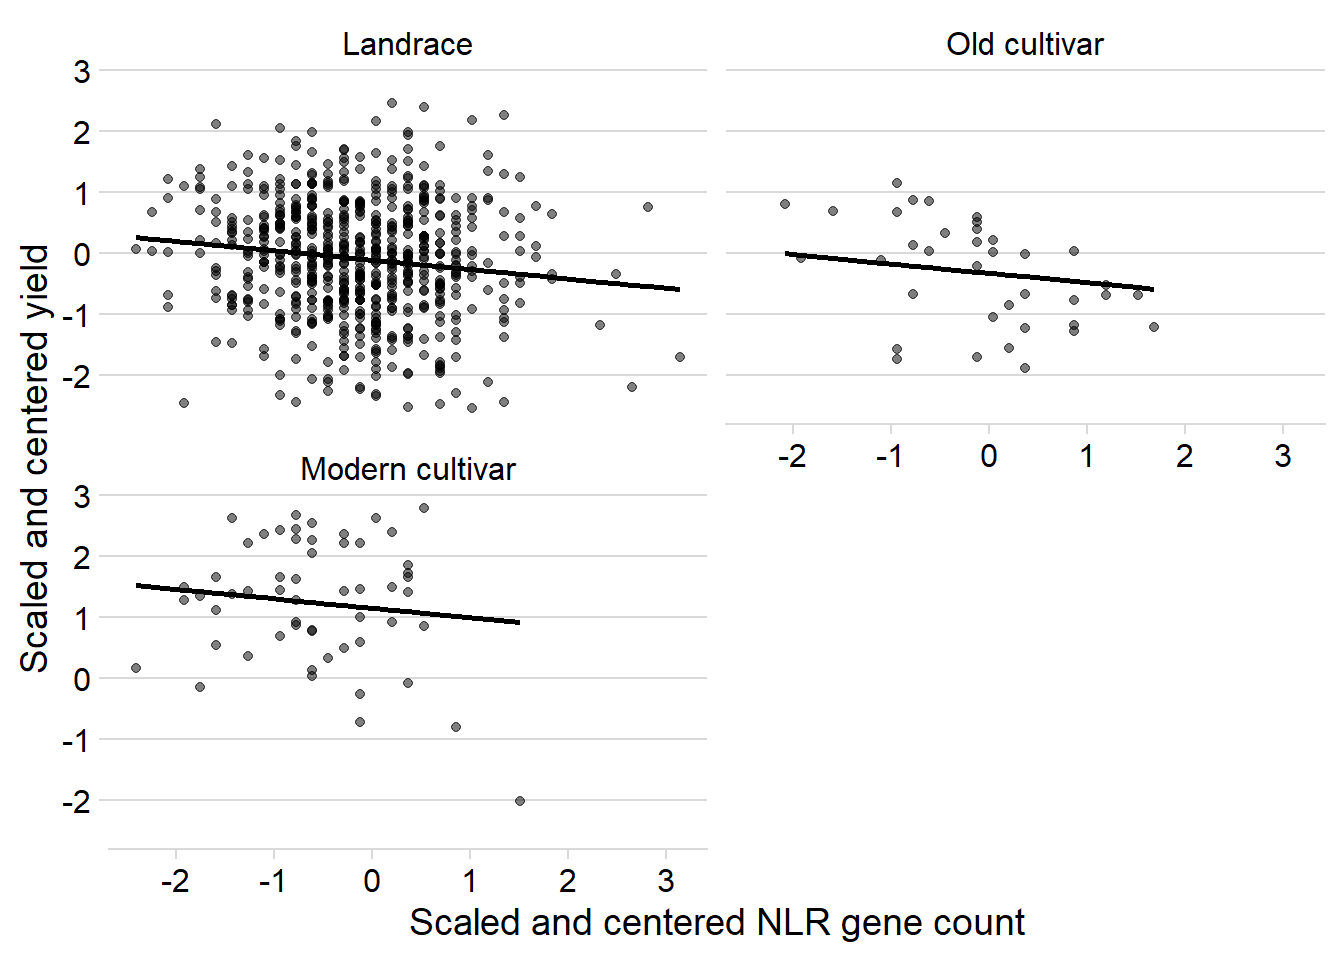
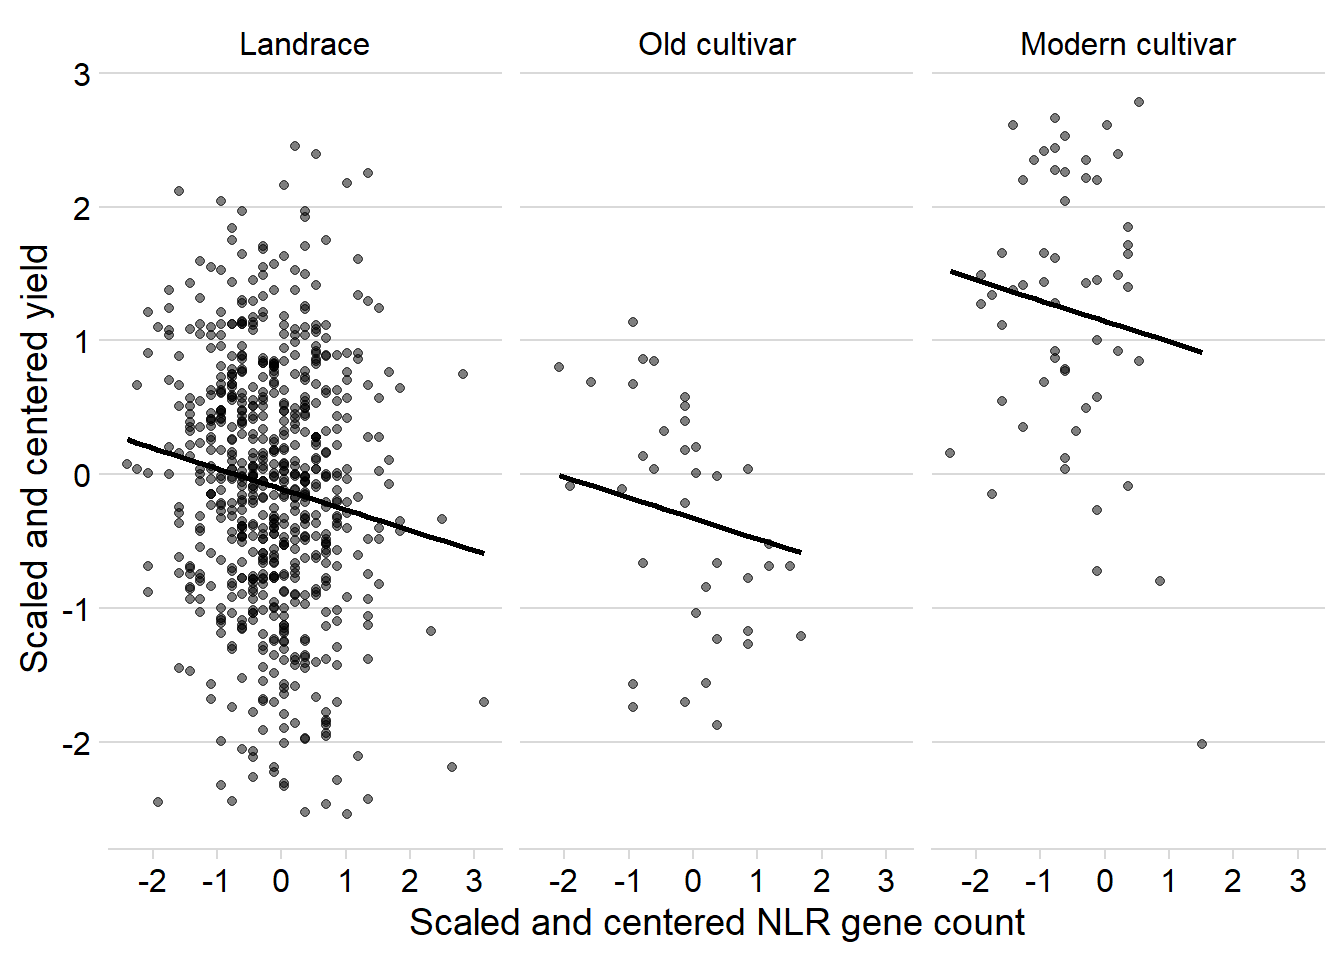
Build site.

diff --git a/docs/yield_link.html b/docs/yield_link.html
@@ -504,16 +504,16 @@ This reproducible <a href="http://rmarkdown.rstudio.com">R Markdown</a> analysis
 <div class="panel panel-default">
 <div class="panel-heading">
 <p class="panel-title">
-<a data-toggle="collapse" data-parent="#workflowr-checks" href="#strongRepositoryversionstrongahrefhttpsgithubcomphilippbayerRgeneanalysistreeb8b60b1c21cd45444b2d0876b5ceecb692608199targetblankb8b60b1a"> <span class="glyphicon glyphicon-ok text-success" aria-hidden="true"></span> <strong>Repository version:</strong> <a href="https://github.com/philippbayer/R_gene_analysis/tree/b8b60b1c21cd45444b2d0876b5ceecb692608199" target="_blank">b8b60b1</a> </a>
+<a data-toggle="collapse" data-parent="#workflowr-checks" href="#strongRepositoryversionstrongahrefhttpsgithubcomphilippbayerRgeneanalysistreef0de0054cbcadb524704d4cb8991ac43c9a81380targetblankf0de005a"> <span class="glyphicon glyphicon-ok text-success" aria-hidden="true"></span> <strong>Repository version:</strong> <a href="https://github.com/philippbayer/R_gene_analysis/tree/f0de0054cbcadb524704d4cb8991ac43c9a81380" target="_blank">f0de005</a> </a>
 </p>
 </div>
[2 lines of base64/hex data omitted]
 <div class="panel-body">
 <p>
 Great! You are using Git for version control. Tracking code development and connecting the code version to the results is critical for reproducibility.
 </p>
 <p>
-The results in this page were generated with repository version <a href="https://github.com/philippbayer/R_gene_analysis/tree/b8b60b1c21cd45444b2d0876b5ceecb692608199" target="_blank">b8b60b1</a>. See the <em>Past versions</em> tab to see a history of the changes made to the R Markdown and HTML files.
+The results in this page were generated with repository version <a href="https://github.com/philippbayer/R_gene_analysis/tree/f0de0054cbcadb524704d4cb8991ac43c9a81380" target="_blank">f0de005</a>. See the <em>Past versions</em> tab to see a history of the changes made to the R Markdown and HTML files.
 </p>
 <p>
 Note that you need to be careful to ensure that all relevant files for the analysis have been committed to Git prior to generating the results (you can use <code>wflow_publish</code> or <code>wflow_git_commit</code>). workflowr only checks the R Markdown file, but you know if there are other scripts or data files that it depends on. Below is the status of the Git repository when the results were generated:
@@ -601,6 +601,40 @@ Message
 </tr>
 </thead>
 <tbody>
+<tr>
+<td>
+Rmd
+</td>
+<td>
+<a href="https://github.com/philippbayer/R_gene_analysis/blob/f0de0054cbcadb524704d4cb8991ac43c9a81380/analysis/yield_link.Rmd" target="_blank">f0de005</a>
+</td>
+<td>
+Philipp Bayer
+</td>
+<td>
+2020-11-18
+</td>
+<td>
+PLots in one row now
+</td>
+</tr>
+<tr>
+<td>
+html
+</td>
+<td>
+<a href="https://rawcdn.githack.com/philippbayer/R_gene_analysis/e3242233183002e66dbfb06637a22d1e8d14c60d/docs/yield_link.html" target="_blank">e324223</a>
+</td>
+<td>
+Philipp Bayer
+</td>
+<td>
+2020-11-18
+</td>
+<td>
+Build site.
+</td>
+</tr>
 <tr>
 <td>
 Rmd
@@ -1524,7 +1558,7 @@ qqline(resid(mixed.lmer))</code></pre>
 <p>:O</p>
 <p>p-value of 0.000247 for the normalised presences while accounting for the breeding group, that’s beautiful.</p>
 <pre class="r"><code>ggplot(yield_nbs_joined_groups, aes(x = presences2, y = Yield2)) +
-      facet_wrap(~Group, nrow=2) +   # a panel for each mountain range
+      facet_wrap(~Group, nrow=1) +   # a panel for each mountain range
       geom_point(alpha = 0.5) +
       theme_classic() +
       geom_line(data = cbind(yield_nbs_joined_groups, pred = predict(mixed.lmer)), aes(y = pred), size = 1) + 
@@ -1583,7 +1617,7 @@ Correlation of Fixed Effects:
 presences2 0.051 </code></pre>
 <p>Nice! Yield is negatively correlated with the number of NLR genes when accounting for breeding group AND country</p>
 <pre class="r"><code>ggplot(yield_country_nbs_joined_groups, aes(x = presences2, y = Yield2, colour = Country)) +
-      facet_wrap(~Group, nrow=2) +   # a panel for each mountain range
+      facet_wrap(~Group, nrow=1) +   # a panel for each mountain range
       geom_point(alpha = 0.5) +
       theme_classic() +
       geom_line(data = cbind(yield_country_nbs_joined_groups, pred = predict(mixed.lmer)), aes(y = pred), size = 1) + 
@@ -1673,7 +1707,7 @@ Correlation of Fixed Effects:
 presences.x -0.991</code></pre>
 <p>Oh, lower p-values for the intercept</p>
 <pre class="r"><code>ggplot(yield_country_nbs_joined_groups, aes(x = presences.x, y = Yield, colour = Country)) +
-      facet_wrap(~Group, nrow=2) +   # a panel for each mountain range
+      facet_wrap(~Group, nrow=1) +   # a panel for each mountain range
       geom_point(alpha = 0.5) +
       theme_classic() +
       geom_line(data = cbind(yield_country_nbs_joined_groups, pred = predict(mixed.lmer)), aes(y = pred), size = 1) + 
@@ -1726,7 +1760,7 @@ GrpOldcltvr  0.003 -0.008
 GrpMdrncltv -0.074  0.065  0.156</code></pre>
 <p>Oh, lower p-values for the intercept</p>
 <pre class="r"><code>ggplot(yield_country_nbs_joined_groups, aes(x = presences.x, y = Yield, colour = Country)) +
-      facet_wrap(~Group, nrow=2) +   # a panel for each mountain range
+      facet_wrap(~Group, nrow=1) +   # a panel for each mountain range
       geom_point(alpha = 0.5) +
       theme_classic() +
       geom_line(data = cbind(yield_country_nbs_joined_groups, pred = predict(mixed.lmer)), aes(y = pred), size = 1) + 
@@ -1875,7 +1909,7 @@ convergence code: 0
 boundary (singular) fit: see ?isSingular</code></pre>
 <p>Oh, a significant p-value, let’s plot plot that and compare with he previous plot:</p>
 <pre class="r"><code>ggplot(yield_country_nbs_joined_groups, aes(x = presences2, y = Yield2, colour = Country)) +
-      facet_wrap(~Group, nrow=2) +   # a panel for each mountain range
+      facet_wrap(~Group, nrow=1) +   # a panel for each mountain range
       geom_point(alpha = 0.5) +
       theme_classic() +
       geom_line(data = cbind(yield_country_nbs_joined_groups, pred = predict(mixed.lmer)), aes(y = pred), size = 1) + 
@@ -1929,7 +1963,7 @@ convergence code: 0
 unable to evaluate scaled gradient
 Model failed to converge: degenerate  Hessian with 2 negative eigenvalues</code></pre>
 <pre class="r"><code>ggplot(yield_country_nbs_joined_groups, aes(x = presences.x, y = Yield, colour = Country)) +
-      facet_wrap(~Group, nrow=2) +   # a panel for each mountain range
+      facet_wrap(~Group, nrow=1) +   # a panel for each mountain range
       geom_point(alpha = 0.5) +
       theme_classic() +
       geom_line(data = cbind(yield_country_nbs_joined_groups, pred = predict(mixed.lmer)), aes(y = pred), size = 1) + 
@@ -1972,7 +2006,7 @@ Correlation of Fixed Effects:
            (Intr)
 presences2 0.231 </code></pre>
 <pre class="r"><code>ggplot(yield_country_nbs_joined_groups, aes(x = presences2, y = Yield2, colour = Country)) +
-      facet_wrap(~Group, nrow=2) +   # a panel for each mountain range
+      facet_wrap(~Group, nrow=1) +   # a panel for each mountain range
       geom_point(alpha = 0.5) +
       theme_classic() +
       geom_line(data = cbind(yield_country_nbs_joined_groups, pred = predict(mixed.lmer)), aes(y = pred), size = 1) + 
@@ -2148,9 +2182,8 @@ presences.x -0.999
 GrpOldcltvr  0.003 -0.008       
 GrpMdrncltv -0.074  0.065  0.156</code></pre>
 <pre class="r"><code>ggplot(yield_country_nbs_joined_groups, aes(x = presences.x, y = Yield, colour = Country)) +
-      facet_wrap(~Group, nrow=2) +   # a panel for each mountain range
+      facet_wrap(~Group, nrow=1) +   # a panel for each mountain range
       geom_point(alpha = 0.5) +
-      theme_classic() +
       geom_line(data = cbind(yield_country_nbs_joined_groups, pred = predict(mixed.lmer)), aes(y = pred), size = 1) + 
       theme_minimal_hgrid() +
       theme(legend.position = &quot;none&quot;) +
